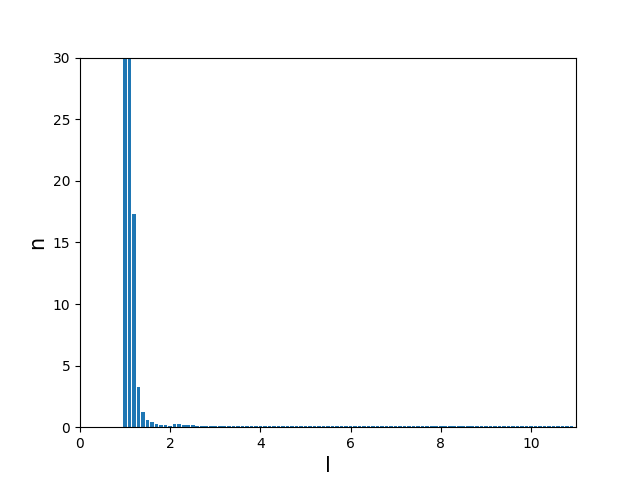
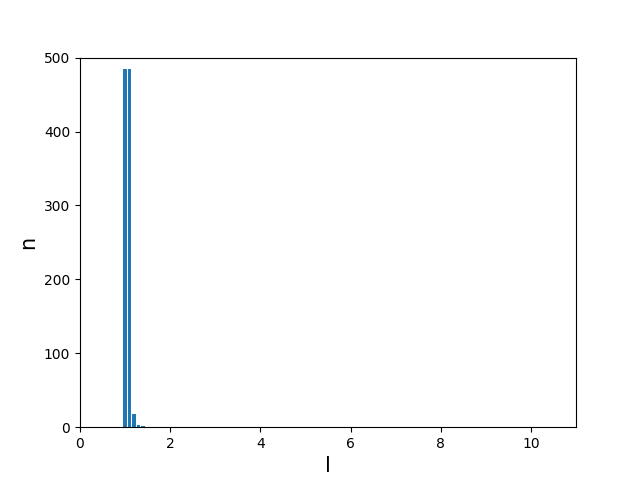
newa

diff --git a/n_fig.py b/n_fig.py
@@ -4,7 +4,7 @@ import matplotlib.pyplot as plt
 import scipy.optimize
 
 
-data = np.loadtxt('ni_10-4.dat')
+data = np.loadtxt('ni_10-2.dat')
 
 x = np.arange(1, 11, 0.1)
 y = data[:,1]
@@ -17,8 +17,8 @@ width = 0.08
 axe.bar(x, y, width)
 plt.xlabel("l", fontsize=15)
 plt.ylabel("n", fontsize=15)
-plt.ylim(0, 30)
+plt.ylim(0, 500)
 plt.xlim(0, 11)
 
-fig.savefig("ni_2_10-4.png")
+fig.savefig("ni_2_10-2.png")
 
